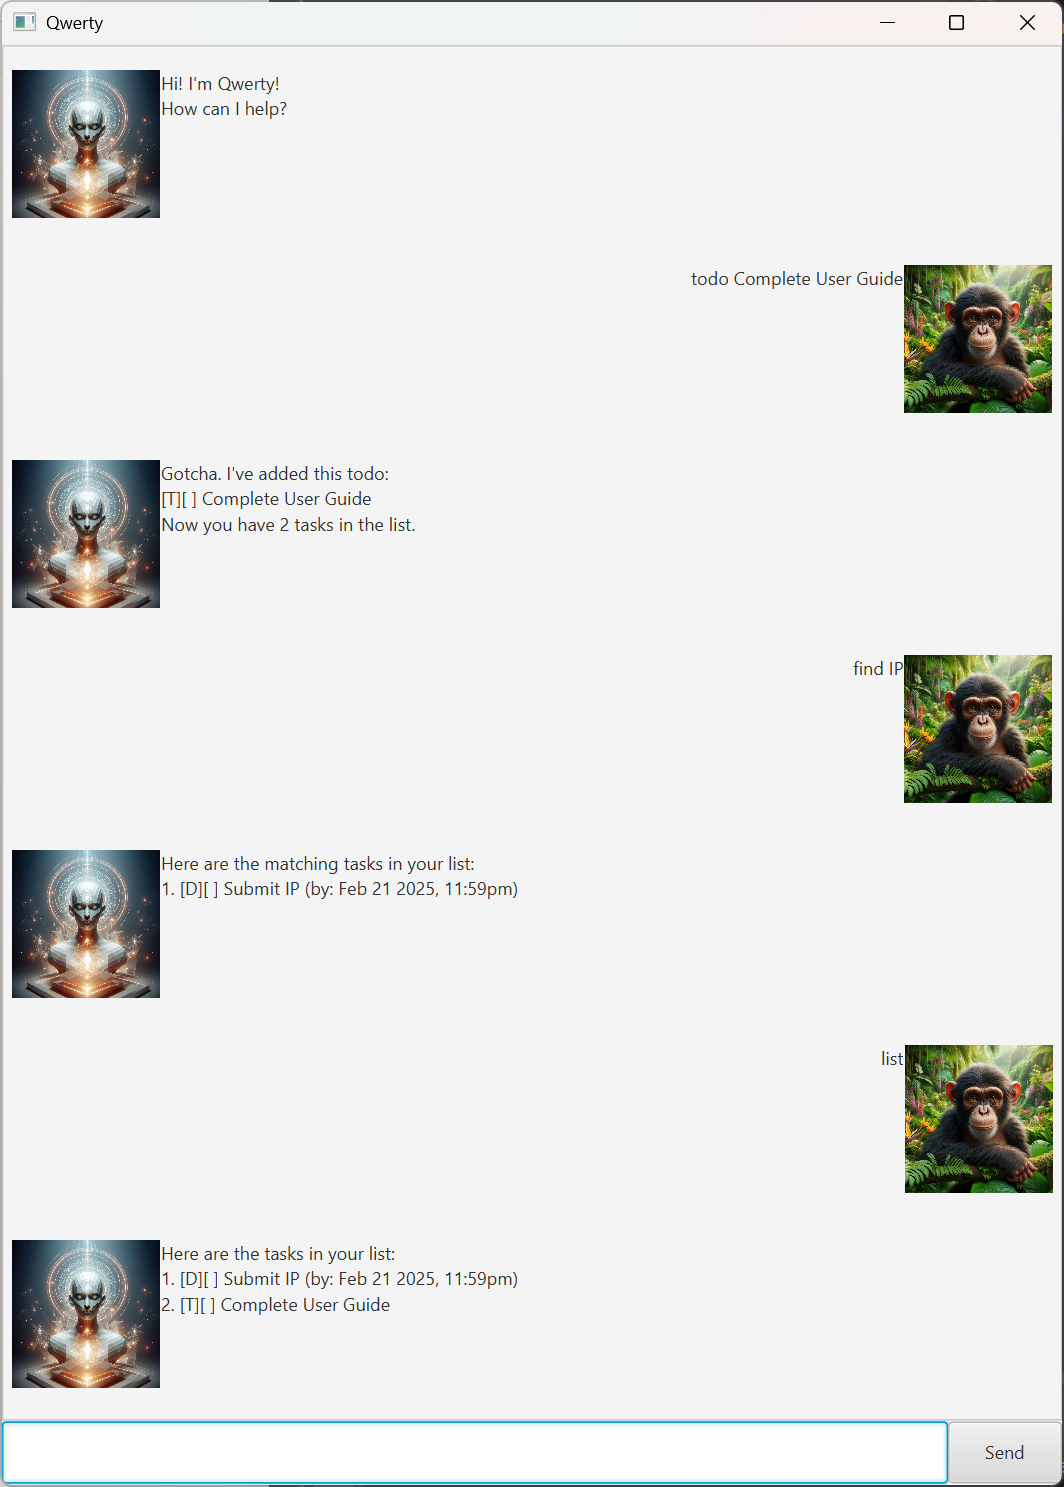
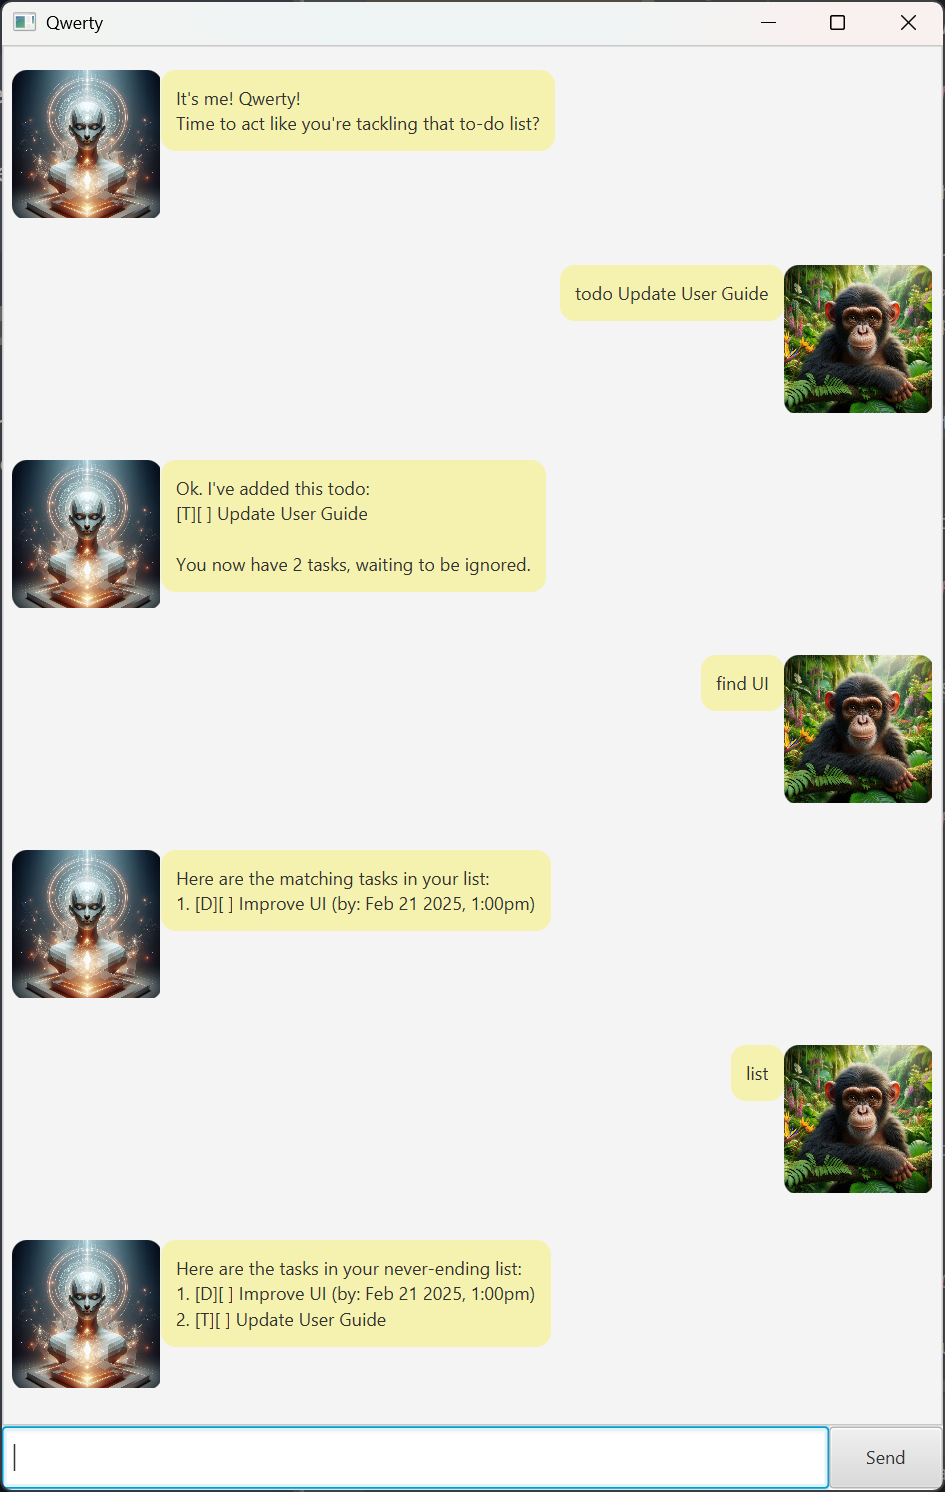
Improve UX
The bot lacked personality, and the UI could be improved for a better user experience. The user guide also needed updates to reflect these changes.

Give the bot a personality, improve the UI, and update the user guide accordingly.

These changes make interactions more engaging, the interface more user-friendly, and the documentation more accurate.

diff --git a/src/main/java/qwerty/ui/TaskList.java b/src/main/java/qwerty/ui/TaskList.java
@@ -44,9 +44,9 @@ public class TaskList {
      */
     public void printList() {
         if (list.isEmpty()) {
-            System.out.println("There is nothing in your list!");
+            System.out.println("Surprise, surprise! There is nothing in your list!");
         } else {
-            System.out.println("Here are the tasks in your list:");
+            System.out.println("Here are the tasks in your never-ending list:");
             for (int i = 0; i < list.size(); i++) {
                 int index = i + 1;
                 System.out.println(index + ". " + list.get(i));
@@ -58,7 +58,7 @@ public class TaskList {
      * Prints the status of the task list, showing the current number of tasks.
      */
     public void printListStatus() {
-        System.out.println("Now you have " + list.size() + " task" + (list.size() == 1 ? " " : "s ") + "in the list.");
+        System.out.println("You now have " + list.size() + " task" + (list.size() == 1 ? "" : "s") + ", waiting to be ignored.");
     }
 
     /**
@@ -70,8 +70,8 @@ public class TaskList {
     public void addToDoToList(String desc) throws BotException {
         Task newTask = new ToDo(desc);
         list.add(newTask);
-        System.out.println("Gotcha. I've added this todo:");
-        System.out.println(newTask);
+        System.out.println("Ok. I've added this todo:");
+        System.out.println(newTask + "\n");
         printListStatus();
     }
 
@@ -88,8 +88,8 @@ public class TaskList {
         }
         Task newTask = new Deadline(parts[0], parts[1]);
         list.add(newTask);
-        System.out.println("Gotcha. I've added this deadline:");
-        System.out.println(newTask);
+        System.out.println("Fine, I've added this deadline:");
+        System.out.println(newTask + "\n");
         printListStatus();
     }
 
@@ -106,8 +106,8 @@ public class TaskList {
         }
         Task newTask = new Event(parts[0], parts[1], parts[2]);
         list.add(newTask);
-        System.out.println("Gotcha. I've added this event:");
-        System.out.println(newTask);
+        System.out.println("Fine, I've added this event:");
+        System.out.println(newTask + "\n");
         printListStatus();
     }
 
@@ -124,8 +124,8 @@ public class TaskList {
         }
         Task newTask = new Loan(parts[0], parts[1], parts[2]);
         list.add(newTask);
-        System.out.println("Gotcha. I've added this loan:");
-        System.out.println(newTask);
+        System.out.println("Fine, I've added this loan:");
+        System.out.println(newTask + "\n");
         printListStatus();
     }
 
@@ -154,7 +154,7 @@ public class TaskList {
         Task task = list.get(i);
         task.markTaskDone();
         list.set(i, task);
-        System.out.println("Nice! I've marked this task as done:");
+        System.out.println("Took you long enough!\n\nI've marked this task as done:");
         System.out.println(list.get(i));
     }
 
@@ -169,7 +169,7 @@ public class TaskList {
         Task task = list.get(i);
         task.unmarkTaskDone();
         list.set(i, task);
-        System.out.println("OK, I've marked this task as not done yet:");
+        System.out.println("Jumped the gun, huh?\n\nI've marked this task as not done yet:");
         System.out.println(list.get(i));
     }
 
@@ -183,8 +183,9 @@ public class TaskList {
         i = validateIndex(i);
         Task task = list.get(i);
         list.remove(i);
-        System.out.println("Noted. I've removed this task:");
+        System.out.println("I've removed this task:");
         System.out.println(task);
+        System.out.println("\nNot like you were going to finish it anyway.\n");
         printListStatus();
     }
 

diff --git a/src/main/java/qwerty/DialogBox.java b/src/main/java/qwerty/DialogBox.java
@@ -11,12 +11,15 @@ import javafx.scene.control.Label;
 import javafx.scene.image.Image;
 import javafx.scene.image.ImageView;
 import javafx.scene.layout.HBox;
+import javafx.scene.paint.Color;
+import javafx.scene.shape.Rectangle;
 
 /**
  * Represents a dialog box consisting of an ImageView to represent the speaker's face
  * and a label containing text from the speaker.
  */
 public class DialogBox extends HBox {
+
     @FXML
     private Label dialog;
     @FXML
@@ -33,7 +36,9 @@ public class DialogBox extends HBox {
         }
 
         dialog.setText(text);
+        dialog.setStyle("-fx-background-color: " + String.format("#%06X", 0xf5f1ae) + "; -fx-padding: 10; -fx-background-radius: 10;");
         displayPicture.setImage(img);
+        displayPicture.setClip(createSquircleClip());
     }
 
     /**
@@ -54,5 +59,13 @@ public class DialogBox extends HBox {
         var db = new DialogBox(text, img);
         db.flip();
         return db;
+    }
+
+    private static Rectangle createSquircleClip() {
+        Rectangle squircle = new Rectangle(100, 100);
+        squircle.setArcWidth(20);
+        squircle.setArcHeight(20);
+        squircle.setFill(Color.BLACK);
+        return squircle;
     }
 }

diff --git a/src/main/java/qwerty/ui/Ui.java b/src/main/java/qwerty/ui/Ui.java
@@ -9,8 +9,8 @@ import java.util.Scanner;
 public class Ui {
 
     private final String BREAKLINE = "------------------------------------------------------------"; // Separator line.
-    private final String WELCOME_MESSAGE = "Hi! I'm Qwerty!\nHow can I help?"; // Welcome message to display.
-    private final String BYE_MESSAGE = "Bye! See you soon!";
+    private final String WELCOME_MESSAGE = "I'm Qwerty!\nReady to assist you with that ever-growing list of not-done tasks"; // Welcome message to display.
+    private final String BYE_MESSAGE = "Bye! Maybe let's pretend you'll be productive the next time we chat.";
     private final Scanner SCANNER = new Scanner(System.in); // Scanner to read user input.
 
     /**

diff --git a/src/main/java/qwerty/MainWindow.java b/src/main/java/qwerty/MainWindow.java
@@ -12,7 +12,7 @@ import qwerty.ui.Qwerty;
  */
 public class MainWindow extends AnchorPane {
 
-    private final String welcomeMessage = "Hi! I'm Qwerty!\nHow can I help?"; // Welcome message to display.
+    private final String welcomeMessage = "It's me! Qwerty!\nTime to act like you're tackling that to-do list?";; // Welcome message to display.
 
     @FXML
     private ScrollPane scrollPane;

diff --git a/docs/README.md b/docs/README.md
@@ -1,6 +1,6 @@
 # Qwerty User Guide
 
-Welcome to Qwerty, your very own task and loan manager that’ll help you keep track of everything on your todo list — from deadlines to events, and even loans (because we all know that *one* person who *always* forgets what they owe). It's easy to use, looks simple, but packs a punch when it comes to keeping you organised.
+Welcome to Qwerty, your very own task and loan manager that’ll help you keep track of everything on your todo list — from deadlines to events, and even loans. Not only that, Qwerty not-so-secretly judges you for your procrastination. Ready to be guilt-tripped into productivity? Qwerty's gotchu.
 
 ---
 
@@ -9,7 +9,7 @@ Welcome to Qwerty, your very own task and loan manager that’ll help you keep t
 You can grab Qwerty from the GitHub releases page:
 
 ### Download the JAR file: [Qwerty.jar](https://github.com/weien02/ip/releases)
-  - **Copy the Qwerty.jar file** to an empty folder on your computer. This will be Qwerty’s new home!
+  - **Copy the Qwerty.jar file** to an empty folder on your computer.
 
 Then, follow these steps:
 
@@ -46,29 +46,29 @@ Once you're in the project directory, run this to build and launch Qwerty:
 
 ## How to Use Qwerty?
 
-Once Qwerty’s up and running, it’s all about those nifty commands. Here’s the rundown:
+Once Qwerty’s up and running, it’s all about those commands. Here’s the rundown:
 
 ### Commands
 
-- **list**: See all your current tasks, laid out nice and simple.
+- **list**: See all your current tasks.
 
   ```text
   list
   ```
 
-- **todo {desc}**: Add a To-Do task. Just pop in a description of what you need to do. It’s as easy as pie!
+- **todo {desc}**: Add a To-Do task. Just add in a description of what you need to do.
 
   ```text
   todo Buy groceries
   ```
 
-- **deadline {desc} /by {yyyy-MM-dd HHmm}**: Got a deadline? No worries, just add your task with a due date and time in this format: `yyyy-MM-dd HHmm`.
+- **deadline {desc} /by {yyyy-MM-dd HHmm}**: Got a deadline? No worries, just add it here with a due date and time in this format: `yyyy-MM-dd HHmm`.
 
   ```text
   deadline Finish homework /by 2025-02-20 1800
   ```
 
-- **event {desc} /from {start} /to {end}**: Got an event coming up? Whether it’s a meeting or a birthday party, add it here with the start and end times.
+- **event {desc} /from {start} /to {end}**: Got an event coming up? Add it here with the start and end times.
 
   ```text
   event Recess Week /from 22 February /to 2 March
@@ -86,13 +86,13 @@ Once Qwerty’s up and running, it’s all about those nifty commands. Here’s 
   find homework
   ```
 
-- **mark {index}**: Finished something? Mark it as done, and feel smug about it.
+- **mark {index}**: Finished something? Mark it as done, but don't feel too smug about it.
 
   ```text
   mark 1
   ```
 
-- **unmark {index}**: Oh no, made a mistake? Unmark it and start again.
+- **unmark {index}**: Oh no, jumped the gun? Unmark it and start again.
 
   ```text
   unmark 1
@@ -104,7 +104,7 @@ Once Qwerty’s up and running, it’s all about those nifty commands. Here’s 
   delete 3
   ```
 
-- **bye**: Saying goodbye? Let Qwerty know you’re off. It won’t be offended.
+- **bye**: Saying goodbye? Let Qwerty know.
 
   ```text
   bye
